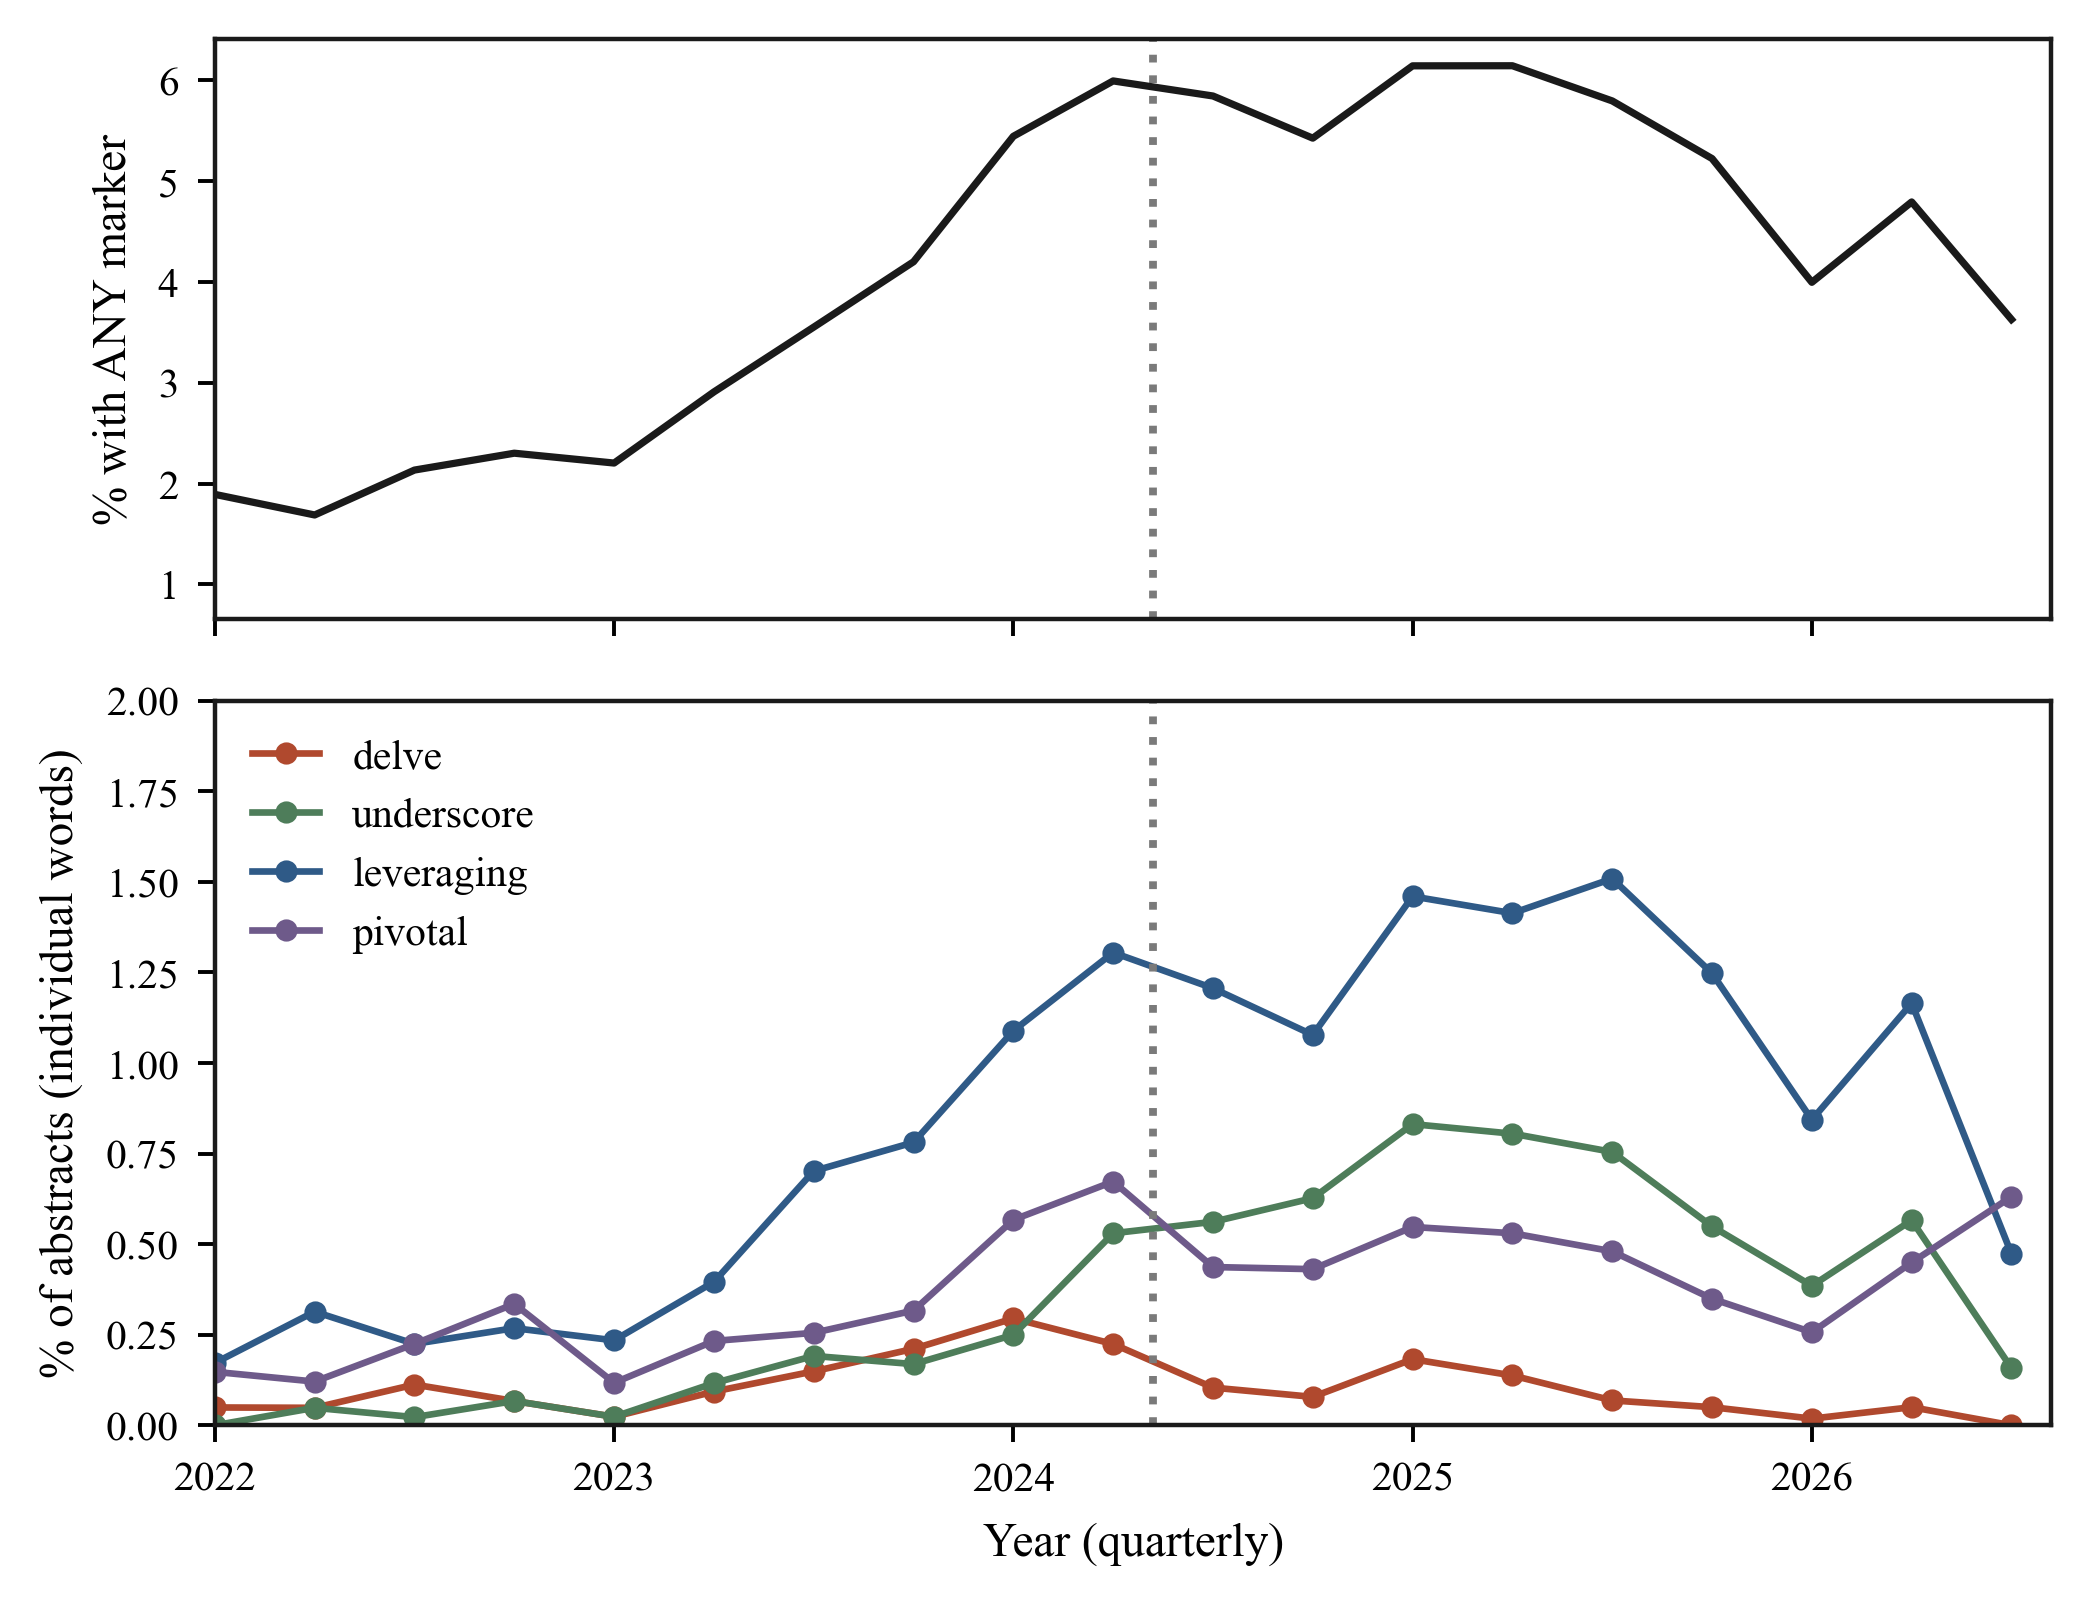
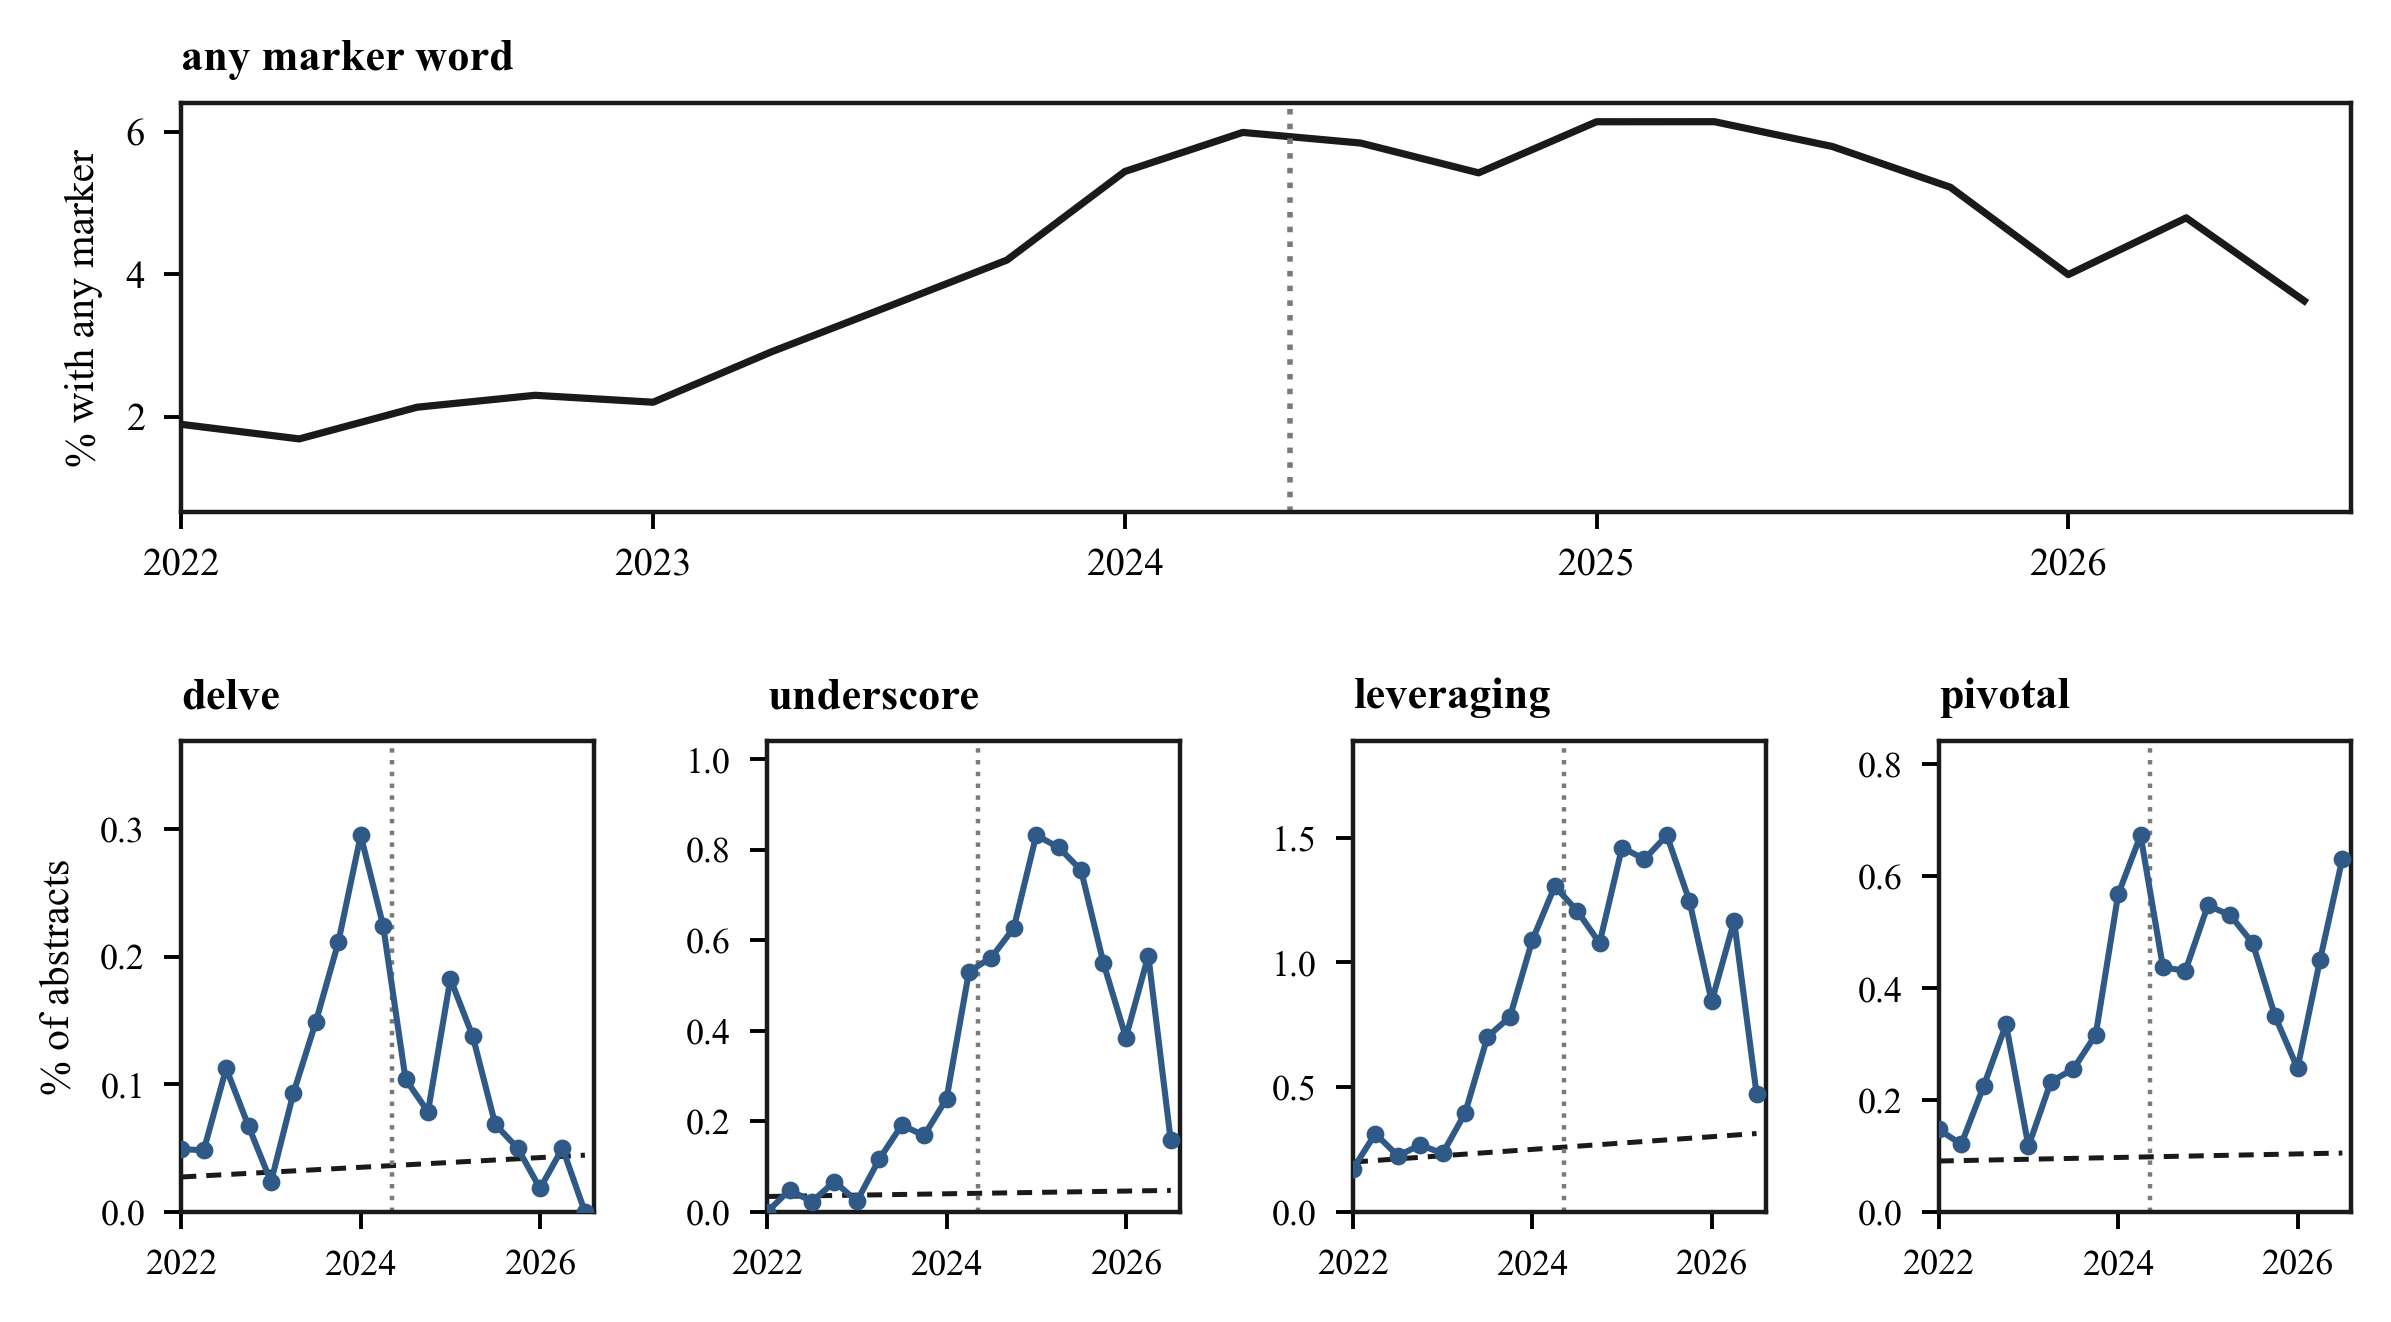
Adopt Kobak et al. structure, references, and figure design
- Reorder to Science Advances form: Introduction / Results / Discussion / Data and
  Methods, with the appendix after the references; the separate Summary section is
  folded into the Discussion opening as an enumerated findings list.
- Double the reference list (12 -> 25): Nature news and editorial context
  (Stokel-Walker & Van Noorden; Else; ground-rules editorial; researcher survey),
  peer-review prevalence (Liang et al. ICML), full-text cross-field terms (Thelwall
  & Kousha), published-telltale catalog (Glynn), paper mills (Richardson et al.
  PNAS), model collapse and knowledge collapse (Shumailov et al.; Wright et al.),
  and astronomy LLM tools (Ciuca & Ting; AstroLLaMA-Chat; AstroMLab).
- Figure 2 redesigned after Kobak Fig. 1: per-word small multiples with the word as
  panel title, per-panel y-ranges, and dashed pre-2022 counterfactual segments,
  under the aggregate quarterly panel.
- 18 pages; all citations resolve; style linter PASS.

diff --git a/src/plots.py b/src/plots.py
@@ -73,33 +73,41 @@ def fig1_markers_vs_control():
 
 # ---------------------------------------------------------------- FIG 2 (delve collapse)
 def fig2_delve_collapse():
+    """Kobak-style: aggregate quarterly rate on top; per-word small multiples below,
+    each with its own y-range and a dashed pre-2022 counterfactual segment."""
     q = pd.read_csv(os.path.join(DATA, "quarter_markers.csv"))
     a = pd.read_csv(os.path.join(DATA, "alpha_series.csv"))
-    def s(w):
-        d = q[(q.word==w)].sort_values("yq")
-        return d.yq.values, d.freq.values*100
-    fig, (top, bot) = plt.subplots(2, 1, figsize=(5.28, 4.32), sharex=True,
-                                   gridspec_kw={"height_ratios":[1, 1.25]})
-    # TOP: aggregate footprint doesn't shrink
-    top.plot(a.yq, a.rate*100, color=C["black"], lw=1.3, zorder=5)
-    top.set_ylabel("% with ANY marker")
-    # BOTTOM: individual words, zoomed
-    for w, col, lab in [("delve", C["vermillion"], "delve"),
-                        ("underscore", C["green"], "underscore"),
-                        ("leveraging", C["blue"], "leveraging"),
-                        ("pivotal", C["purple"], "pivotal")]:
-        x, y = s(w)
-        bot.plot(x, y, "-o", ms=3, lw=1.2, color=col, label=lab)
-    bot.set_ylabel("% of abstracts (individual words)")
-    bot.set_xlabel("Year (quarterly)")
-    for ax in (top, bot):
-        ax.axvline(2024.35, color=C["grey"], ls=":", lw=1.4)
-    bot.set_xlim(2022, 2026.6)
-    bot.set_ylim(0, 2.0)
-    # legend in the clear upper-left (all lines are low there in 2022-2023);
-    # annotation above the data, connected by the existing dotted line
-    bot.legend(loc="upper left", ncol=1, fontsize=7.5)
-    footer(fig); fig.tight_layout(rect=[0,0.03,1,0.97])
+    ym = pd.read_csv(os.path.join(DATA, "year_markers.csv"))
+    words = ["delve", "underscore", "leveraging", "pivotal"]
+
+    fig = plt.figure(figsize=(7.0, 3.6))
+    gs = fig.add_gridspec(2, 4, height_ratios=[1.0, 1.15], hspace=0.52, wspace=0.42)
+    top = fig.add_subplot(gs[0, :])
+    top.plot(a.yq, a.rate*100, color=C["black"], lw=1.3)
+    top.axvline(2024.35, color=C["grey"], ls=":", lw=1.0)
+    top.set_xlim(2022, 2026.6)
+    top.set_ylabel("% with any marker", fontsize=7.5)
+    top.set_title("any marker word", loc="left", fontsize=8)
+    top.tick_params(labelsize=7)
+
+    for i, w in enumerate(words):
+        ax = fig.add_subplot(gs[1, i])
+        d = q[(q.word == w) & (q.yq >= 2022)].sort_values("yq")
+        # counterfactual: linear fit to the 2015-2021 yearly rates, extrapolated
+        yy = ym[(ym.word == w) & (ym.year <= 2021)]
+        coef = np.polyfit(yy.year, yy.freq*100, 1)
+        xx = np.array([2022, 2026.5])
+        ax.plot(xx, np.clip(np.polyval(coef, xx), 0, None), ls=(0, (3, 2)),
+                lw=0.9, color=C["black"], zorder=2)
+        ax.plot(d.yq, d.freq*100, "-o", ms=2.2, lw=1.1, color=C["blue"], zorder=3)
+        ax.axvline(2024.35, color=C["grey"], ls=":", lw=0.8)
+        ax.set_xlim(2022, 2026.6)
+        ax.set_ylim(0, max(d.freq.max()*100*1.25, 0.1))
+        ax.set_title(w, loc="left", fontsize=8)
+        ax.tick_params(labelsize=6.5)
+        ax.set_xticks([2022, 2024, 2026])
+        if i == 0:
+            ax.set_ylabel("% of abstracts", fontsize=7.5)
     fig.savefig(os.path.join(FIGS, "fig2_delve_collapse.png"), bbox_inches="tight")
     plt.close(fig)
 
